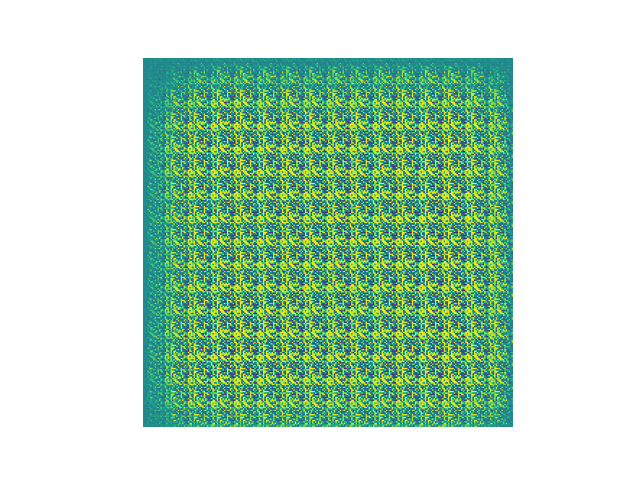
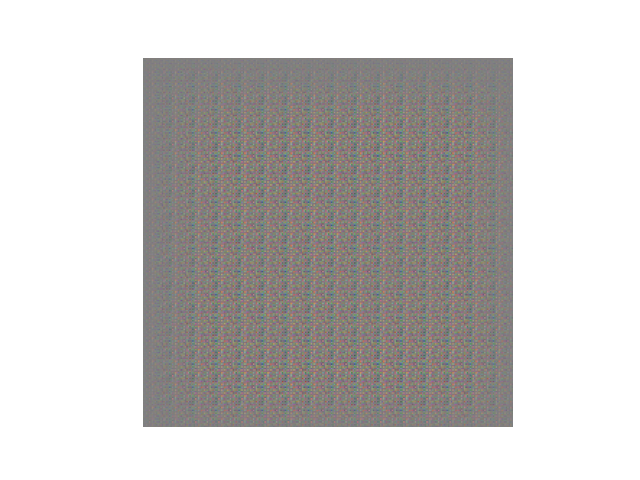
wip

diff --git a/gan.py b/gan.py
@@ -28,18 +28,14 @@ from matplotlib import pyplot as plt
 import os
 import time
 from IPython import display
-# from sklearn.model_selection import train_test_split
+import subprocess
 
 
-'''
-Arguments for GAN
-'''
-EPOCHS = 3
+## Arguments for GAN
+EPOCHS = 10
 EXAMPLES_TO_GENERATE = 6
-# IMAGE_HEIGHT = 192
-# IMAGE_WIDTH = 256
-IMAGE_HEIGHT = 256 #for now
-IMAGE_WIDTH = 256 #for now
+IMAGE_HEIGHT = 256
+IMAGE_WIDTH = 256 #192?
 BATCH_SIZE = 8 #From tips and tricks article
 BUFFER_SIZE = 80 #should be around the size of the dataset! Shouldn't be hardcoded
 TF_RECORD_PATH = "output.tfrecord"
@@ -53,11 +49,6 @@ alpha_Discriminator = 0.2
 alpha_Generator = 0.2
 momentum_BatchNormalization = 0.8 #rectgan suggests 0.3
 
-
-
-
-
-
 ################# Building Generator #################
 
 def add_generator_layer(model, num_filters, kernel, num_strides): #from rectgan
@@ -68,48 +59,46 @@ def add_generator_layer(model, num_filters, kernel, num_strides): #from rectgan
   model.add(layers.BatchNormalization(momentum=momentum_BatchNormalization))
   model.add(layers.LeakyReLU())
 
-# NEW TUTORIAL: https://www.tensorflow.org/tutorials/generative/dcgan
-# https://machinelearningmastery.com/semi-supervised-generative-adversarial-network/
 def make_generator():
   '''
-  Create noise for the generator. Experiment with the number of layers!
+  Creating noise for the generator.
   '''
   model = tf.keras.Sequential() #add layers to generator model
-  # model.add(layers.Dense(7*7*256, input_dim=128, use_bias=False))
   model.add(layers.Dense(16*16*256, input_shape=(100,), use_bias=False))
   model.add(layers.LeakyReLU(alpha=0.2))
   model.add(layers.Reshape((16, 16, 256)))
 
-  add_generator_layer(model, 256, (5, 5), strides[0])
-  add_generator_layer(model, 128, (5, 5), strides[1])
-  add_generator_layer(model, 64, (5, 5), strides[1])
-  add_generator_layer(model, 32, (5, 5), strides[1])
-  add_generator_layer(model, 3, (5, 5), strides[2]) #3-channel output?
-  # model.add(layers.Conv2DTranspose(3,kernel_size=3,strides=2,padding='same',use_bias=False,kernel_initializer=tf.keras.initializers.RandomNormal(stddev=0.02)))
-  model.add(layers.Activation('tanh')) # Resulting shape = (64,64,3)
+  add_generator_layer(model, 256, (5, 5), num_strides=(2, 2))
+  add_generator_layer(model, 128, (5, 5), num_strides=(2, 2))
+  add_generator_layer(model, 64, (5, 5), num_strides=(2, 2))
+  add_generator_layer(model, 32, (5, 5), num_strides=(2, 2))
+  model.add(layers.Conv2DTranspose(3,kernel_size=3,strides=2,padding='same',use_bias=False,kernel_initializer=tf.keras.initializers.RandomNormal(stddev=0.02)))
+  model.add(layers.Activation('tanh')) # Final shape = (64,64,3)
 
   return model
 
 #https://machinelearningmastery.com/semi-supervised-generative-adversarial-network/
 def add_discriminator_layer(model, filters, kernel, num_strides): #from rectgan/nets.py and https://github.com/vmvargas/GAN-for-Nuclei-Detection/blob/master/model-MNIST-cross-validation.py
-  # model.add(layers.BatchNormalization(momentum=momentum_BatchNormalization))
-  model.add(layers.Conv2D(filters, kernel_size=kernel, strides=num_strides, padding='same', input_shape=(256, 256, 3)))
+  model.add(layers.GaussianNoise(0.1)) #tip from reddit: https://github.com/ShivamShrirao/GANs_TF_2.0/blob/main/celeb_face_GAN.ipynb
+  model.add(layers.Conv2D(filters, kernel_size=kernel, strides=num_strides, padding='same', input_shape=(256, 256, 3), use_bias=False))
   model.add(layers.LeakyReLU(alpha_Discriminator))
+  if(filters != 32): #celeb_face_GAN.ipynb
+    model.add(layers.BatchNormalization(momentum=momentum_BatchNormalization))
 
 #other tutorial: https://github.com/vmvargas/GAN-for-Nuclei-Detection/blob/master/model-MNIST-cross-validation.py
 def make_discriminator(): #same tutorial, https://github.com/nicknochnack/GANBasics/blob/main/FashionGAN-Tutorial.ipynb
+  """
+  Building the discriminator.
+  """
   model = tf.keras.Sequential()
-  add_discriminator_layer(model, 64, (3, 3), strides[2])
-  add_discriminator_layer(model, 128, (3, 3), strides[1])
-  add_discriminator_layer(model, 256, (5, 5), strides[1])
-  add_discriminator_layer(model, 512, (5, 5), strides[1])
-  add_discriminator_layer(model, 1, (4, 4), strides[0])
+  add_discriminator_layer(model, 64, (3, 3), num_strides=(1,1))
+  add_discriminator_layer(model, 128, (3, 3), num_strides=(2,2))
+  add_discriminator_layer(model, 256, (5, 5), num_strides=(2,2))
+  add_discriminator_layer(model, 512, (5, 5), num_strides=(2,2))
+  add_discriminator_layer(model, 1, (4, 4), num_strides=(2,2))
   model.add(layers.Dropout(0.25))
   model.add(layers.Flatten())
-  model.add(layers.Activation('sigmoid'))
-  # model.add(layers.Dense(1)) #1 channel output
-  # model.add(layers.Dense(3, activation='sigmoid')) #3 channel output
-
+  model.add(layers.Dense(1, activation=None)) #1 channel output
   return model
 
 def discriminator_loss(real_output, fake_output):
@@ -126,10 +115,6 @@ def generator_loss(fake_output):
 #https://www.tensorflow.org/tutorials/generative/dcgan
 @tf.function #turns into a graph, for faster execution
 def train_step(image_batch, generator, discriminator, generator_optimizer, discriminator_optimizer):
-    
-    print("Image batch shape:", image_batch.get_shape())
-    
-    
     noise = tf.random.normal([BATCH_SIZE, noise_dim])
 
     with tf.GradientTape() as gen_tape, tf.GradientTape() as disc_tape: #compute gradients for discriminator and generator using two different GradientTapes
@@ -151,10 +136,10 @@ def train_step(image_batch, generator, discriminator, generator_optimizer, discr
 def generate_and_save_images(model, epoch, test_input):
   predictions = model(test_input, training=False)
   for i in range(predictions.shape[0]): #for each image in the batch
-    plt.imshow(predictions[i, :, :, 0] * 0.5 + 0.5)
+    plt.imshow(predictions[i, :, :, :]*0.5 + 0.5)
     plt.axis('off')
     plt.savefig(f"GAN_output_images/img{i}/image{i}_epoch_{epoch:04d}.png")
-    plt.clf()  # Clear the current figure to prevent overlapping plots
+    plt.clf()  #clear the current figure to prevent overlapping plots
   
   
 def make_output_directories(examples_to_generate):
@@ -179,7 +164,6 @@ def decode_image(image):
   image = tf.reshape(image, [IMAGE_HEIGHT, IMAGE_WIDTH, 3])
   image = (tf.cast(image, tf.float32) / 127.5) - 1 #Normalize images to [-1, 1]
   return image
-  # return tf.data.Dataset.from_tensor_slices(image)
 
 #decode
 #https://www.kaggle.com/code/drzhuzhe/monet-cyclegan-tutorial
@@ -205,8 +189,8 @@ def train():
   
   print("Shuffling dataset, creating batches...")
   train_dataset = dataset.shuffle(BUFFER_SIZE).batch(BATCH_SIZE)
-  print("Dataset:", dataset)
-  print("Train dataset:", train_dataset)
+  # print("Dataset:", dataset)
+  # print("Train dataset:", train_dataset)
   
   #Create generator and discriminator models:
   print("Creating generator model...")
@@ -227,9 +211,9 @@ def train():
   
   checkpoint_prefix = os.path.join(checkpoint_dir, "checkpt")
   
-  # checkpoint = tf.train.Checkpoint(generator_optimizer=generator_optimizer, 
-  #                                 discriminator_optimizer=discriminator_optimizer, 
-  #                                 generator=generator, discriminator=discriminator)
+  checkpoint = tf.train.Checkpoint(generator_optimizer=generator_optimizer, 
+                                  discriminator_optimizer=discriminator_optimizer, 
+                                  generator=generator, discriminator=discriminator)
   
   print("Creating directories for output images...")
   make_output_directories(EXAMPLES_TO_GENERATE)
@@ -240,8 +224,8 @@ def train():
   for epoch in range(EPOCHS):
     start = time.time()
     print("Epoch:", epoch)
-    for image_batch in train_dataset:
-      print("Iterating for image batch...")
+    for i, image_batch in enumerate(train_dataset):
+      print("Training step:", i, "/", len(train_dataset))
       train_step(image_batch, generator, discriminator, generator_optimizer, discriminator_optimizer)
 
     print("Saving images...")
@@ -252,10 +236,10 @@ def train():
                              seed)
 
     # Save the model every 15 epochs
-    # print("Saving checkpoint of model...")
-    # if (epoch + 1) % 2 == 0:
-    #   checkpoint.save(file_prefix = checkpoint_prefix)
-    #   print("Checkpoint saved successfully to file:", checkpoint_dir)
+    print("Saving checkpoint of model...")
+    if (epoch + 1) % 2 == 0:
+      checkpoint.save(file_prefix = checkpoint_prefix)
+      print("Checkpoint saved successfully to file:", checkpoint_dir)
 
     print ('Time for epoch {} is {} sec\n'.format(epoch + 1, time.time()-start))
 
